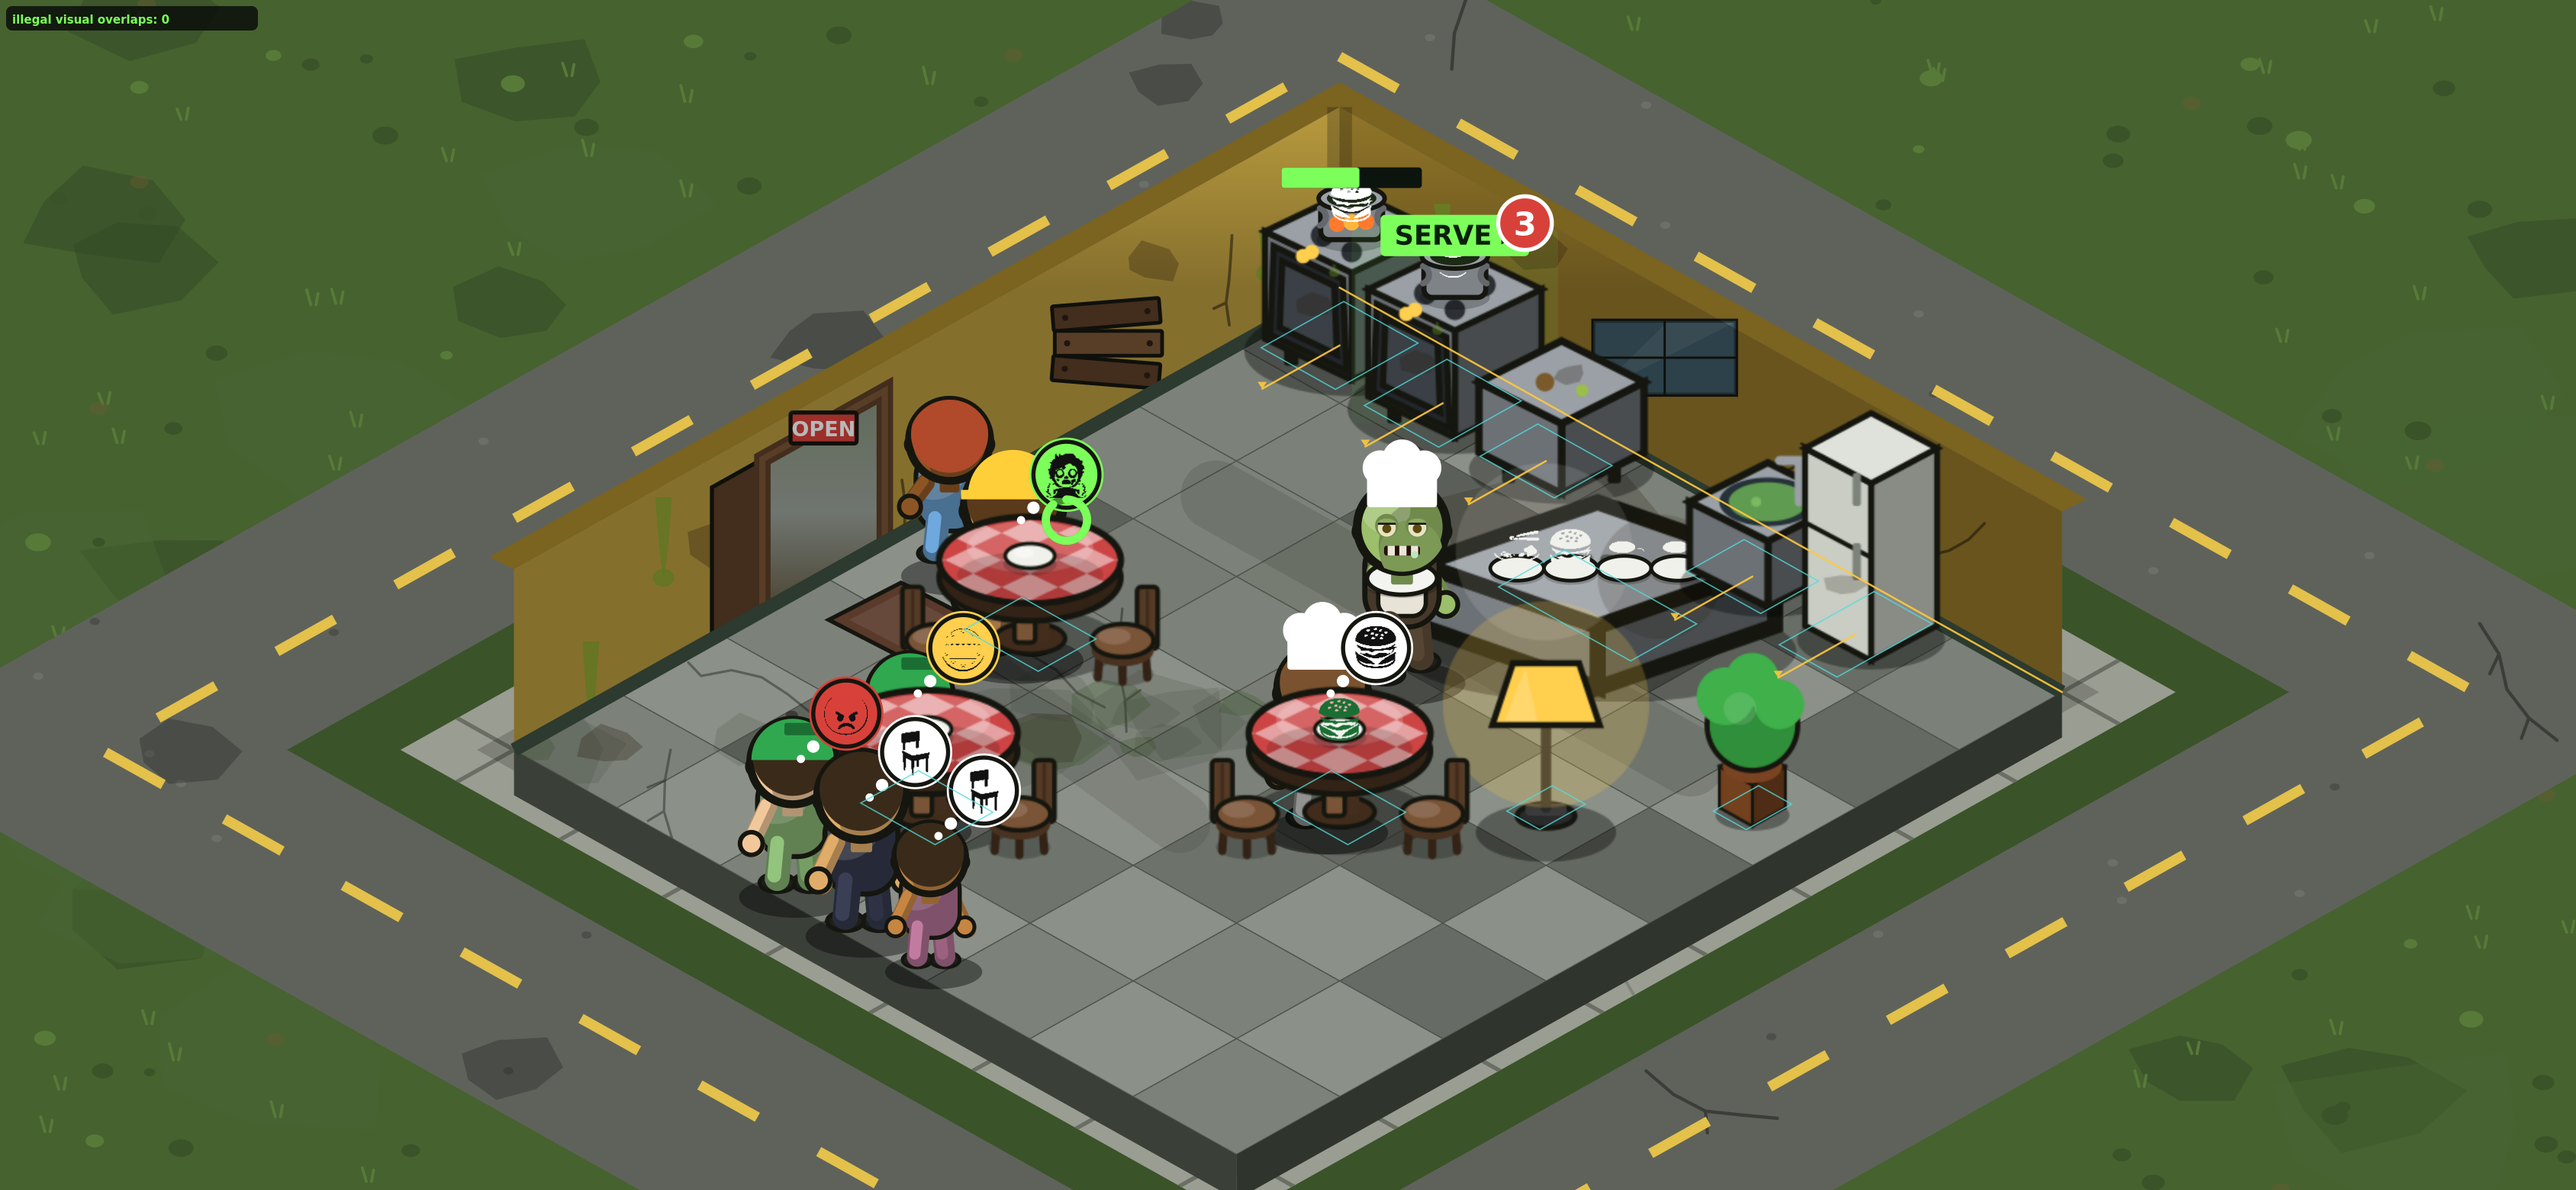
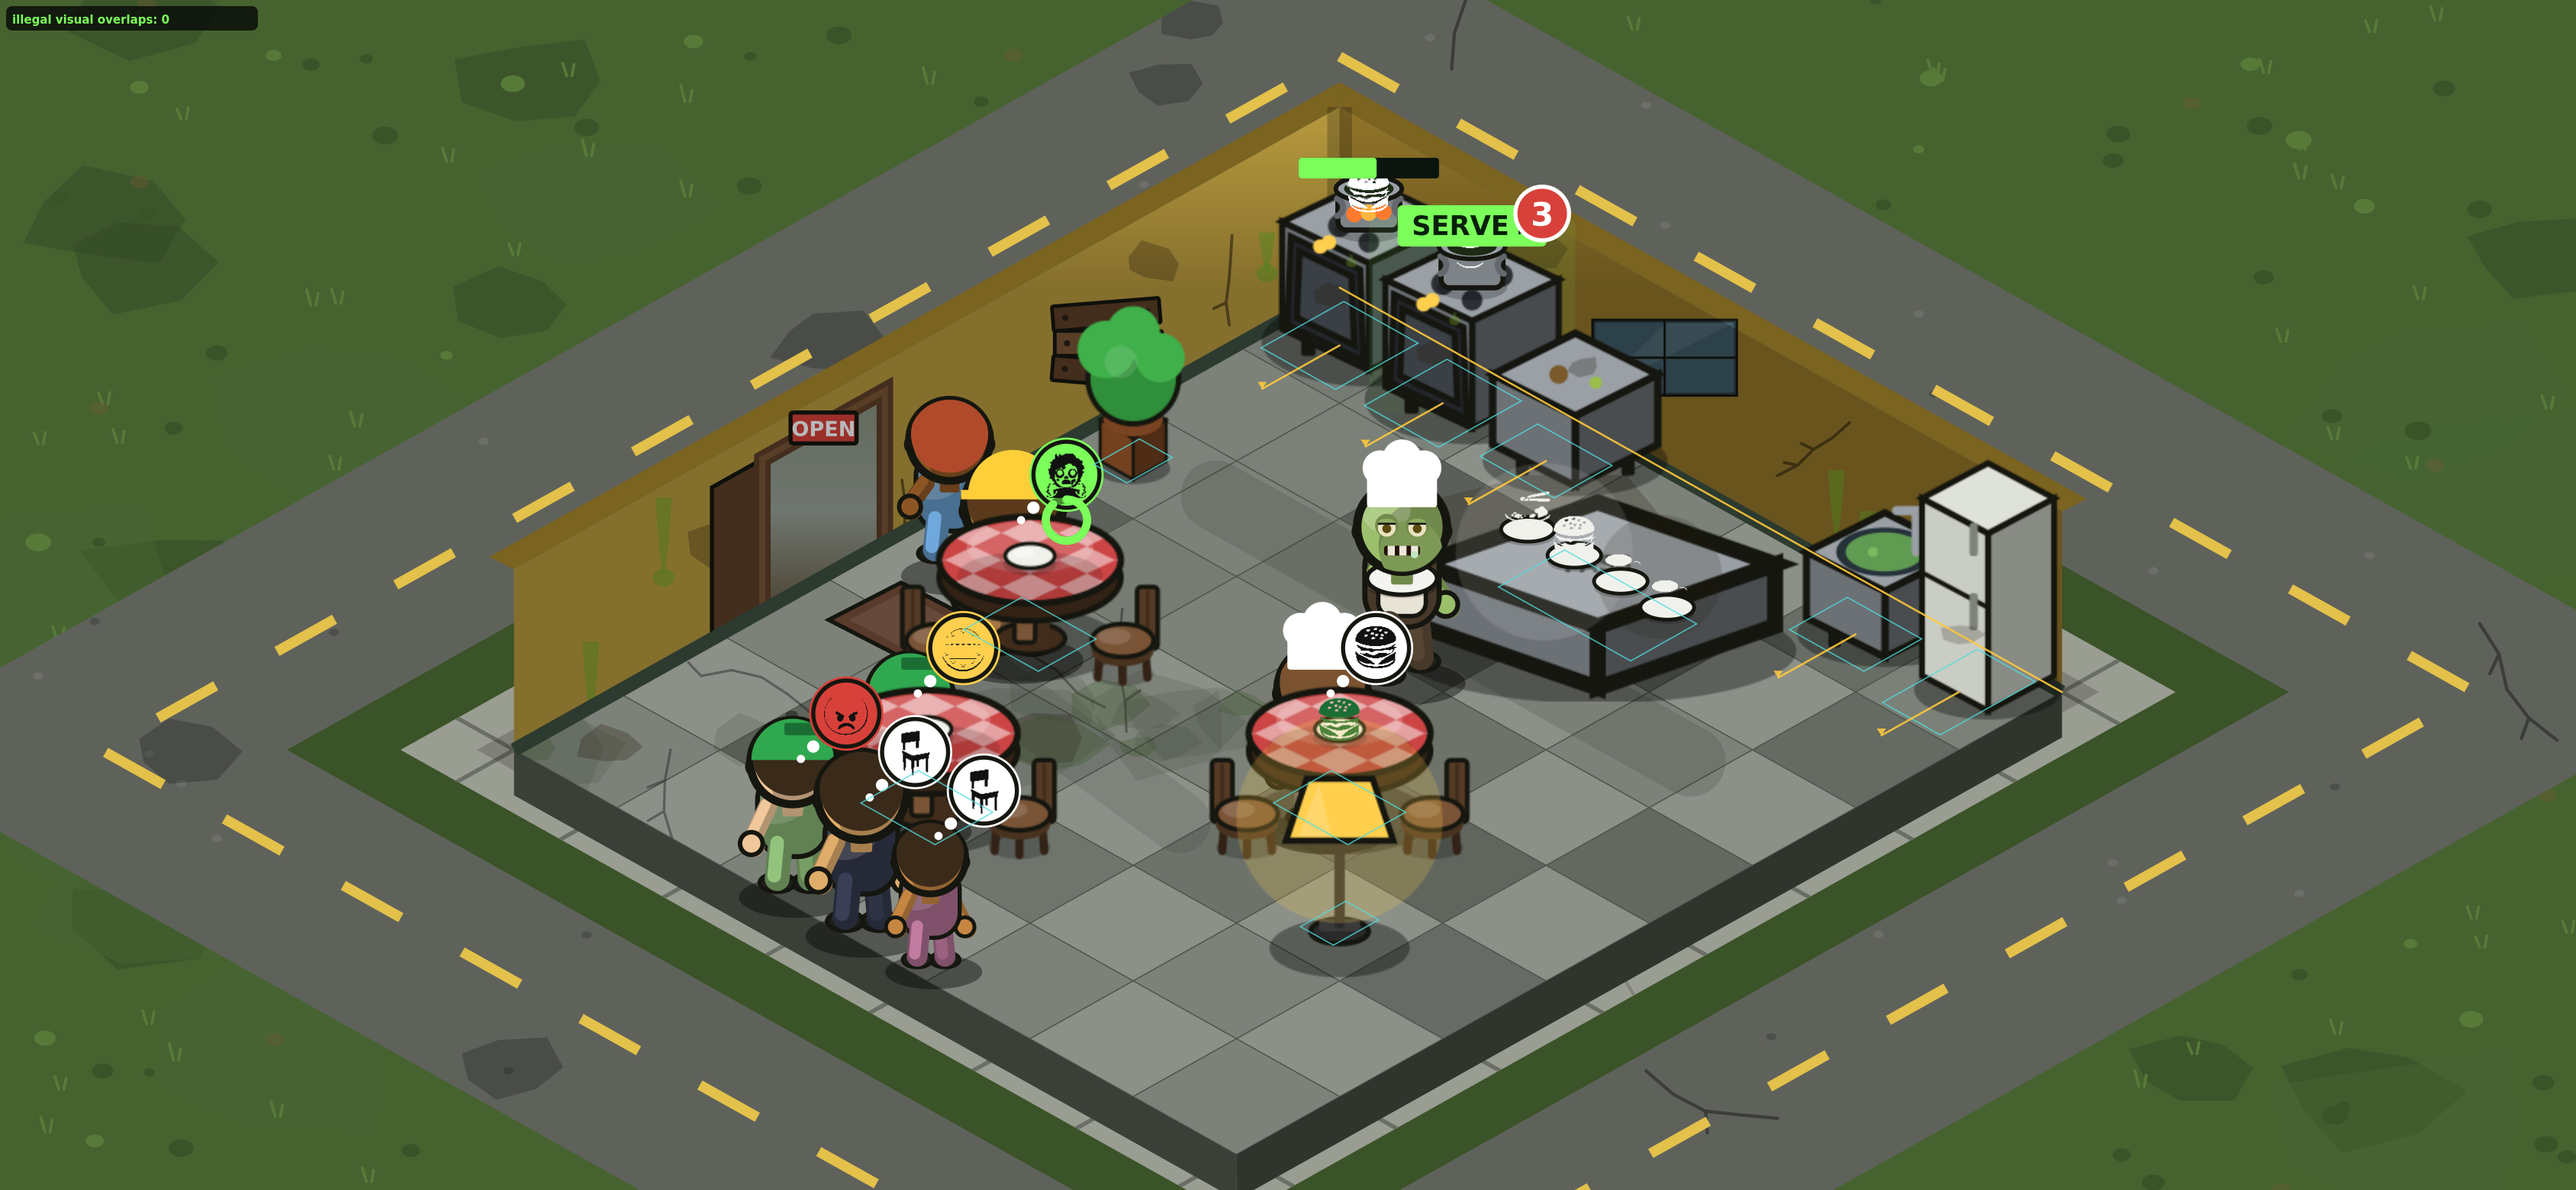
Fix circled kitchen mess: plates on the counter plane, depth tie, wall flush
From the user's marked-up screenshot, three concrete bugs in the pass/sink area:

1. PLATES FLOATED in a flat horizontal screen row across the pass. Ready dishes
   are now spread ALONG the counter's long world axis and projected, so the row
   follows the iso top plane and stays on the surface.
2. DEPTH TIE: the sink behind the 2x1 pass had the same painter depth (x+y) as
   the pass, so it could draw level with / on top of it and looked like it was
   floating beside the counter. The pass now keys its depth off its visual
   center + front half; row-0 appliances always draw behind it. The demo
   kitchen also keeps the tiles directly behind the pass EMPTY (sink moved to
   col 5, fridge col 6) so the silhouette stays clean.
3. WALL GAP: row-0 appliances sat half a tile off the wall. Wall bias increased
   (-34) for stoves + counter/sink/fridge so their back edges hug the wall base.

Also uncrowded decor (plant to the left wall, lamp by the dining table).
51/51 tests; harness re-shot (sprites: 9 | fallback: none).

Changed region(s): [[0.4043, 0.1231, 0.8086, 0.8308]]

diff --git a/www/render.js b/www/render.js
@@ -118,7 +118,9 @@
     this._custs = world.customers;
     var dvof = function (id) { var o = vof(id); return o.x + o.y; };
     function add(d, fn) { items.push({ d: d, fn: fn }); }
-    add(Wld.PASS.x + Wld.PASS.y, function () { self._pass(c, world); });
+    // pass spans 2 tiles: depth keys off its visual CENTER + front half so
+    // row-0 appliances behind it can never tie/draw over it
+    add(Wld.PASS.x + Wld.TILE * (Wld.PASS_W - 1) / 2 + Wld.PASS.y + 30, function () { self._pass(c, world); });
     world.decors.forEach(function (d) { add(d.x + d.y + dvof(d.id), function () { self._decor(c, d, ui.selected && ui.selected.id === d.id); }); });
     world.tables.forEach(function (tb) {
       var selT = ui.selected && ui.selected.id === tb.id;
@@ -461,10 +463,13 @@
       b = isoBox(c, p.x, p.y + S * 0.1, S * 0.86, S * 0.3, S * 0.3, C.steel, C.steelD);
       c.save(); topClip(c, b); c.fillStyle = 'rgba(255,255,255,.12)'; circle(c, b.x - b.fw * 0.3, b.topY - b.fh * 0.2, b.fw * 0.5); c.fillStyle = 'rgba(40,30,16,.18)'; circle(c, b.x + b.fw * 0.35, b.topY + b.fh * 0.2, b.fw * 0.35); c.restore();
     }
-    // ready dishes spread along the long top plane
+    // ready dishes spread ALONG the counter's long axis (world-x), so the row
+    // follows the iso top plane instead of floating in a flat screen line
     var n = world.ready.length, show = Math.min(n, 4);
+    var topLift = (p.y + S * 0.1) - b.topY;               // height of the top plane above the base
     for (var i = 0; i < show; i++) {
-      var dx = b.x - (show - 1) * S * 0.13 + i * S * 0.26, dy = b.topY + S * 0.02;
+      var dw = this.project(px0 - (show - 1) * 27 + i * 54, Wld.PASS.y);
+      var dx = dw.x, dy = dw.y + S * 0.1 - topLift + S * 0.02;
       c.fillStyle = 'rgba(0,0,0,.2)'; c.beginPath(); c.ellipse(dx, dy + S * 0.03, S * 0.13, S * 0.05, 0, 0, 7); c.fill();
       c.fillStyle = '#f1f1ec'; c.beginPath(); c.ellipse(dx, dy, S * 0.13, S * 0.06, 0, 0, 7); c.fill(); c.strokeStyle = C.out; c.lineWidth = S * 0.018; c.stroke();
       c.font = (S * 0.2) + 'px system-ui'; c.textAlign = 'center'; c.textBaseline = 'middle';
@@ -552,7 +557,7 @@
     var it = shop(d.deco) || {};
     var wallFlush = WALL_ARTS[it.art] === 1;
     var vo = wallFlush ? { x: 0, y: 0 } : vof(d.id);                 // wall items sit exactly flush
-    var wallBias = wallFlush ? -18 : 0;                              // pulled back against the wall base
+    var wallBias = wallFlush ? -34 : 0;                              // back edge hugs the wall base
     var p = this.project(d.x + vo.x, d.y + vo.y + wallBias), S = this.S, lift = sel ? S * 0.18 : 0, y = p.y - lift;
     // runtime sprite path (selection keeps procedural for the lift + ring)
     var sid = DECOR_SPRITE[it.art];
@@ -619,14 +624,14 @@
   };
 
   Renderer.prototype._stove = function (c, st, world, t, sel) {
-    // wall-flush appliance: no random offset, pulled slightly toward the wall
-    var p = this.project(st.x, st.y - 14), S = this.S, x = p.x, y = p.y;
+    // wall-flush appliance: no random offset, back edge hugs the wall base
+    var p = this.project(st.x, st.y - 34), S = this.S, x = p.x, y = p.y;
     if (this._selZ && (st.ready || st.burned)) this._hl(c, x, y + S * 0.2, S * 1.05, t);
     if (st.ready && !st.burning) { c.fillStyle = 'rgba(124,255,90,' + (0.2 + 0.12 * Math.sin(t * 5)) + ')'; rr(c, x - S * 0.5, y - S * 0.82, S, S * 0.95, 12); c.fill(); }
     if (st.burning || st.burned) { c.fillStyle = 'rgba(216,65,58,' + (0.22 + 0.14 * Math.sin(t * 7)) + ')'; rr(c, x - S * 0.5, y - S * 0.82, S, S * 0.95, 12); c.fill(); }
     // ===== a real iso BOX: bottom diamond on the floor, extruded up =====
     var fw = S * 0.42, fh = S * 0.2, bh = S * 0.52, topY = y - bh;
-    if (!sel && this._blit(c, 'stove_body', st.x, st.y - 14)) { this._stoveState(c, st, world, t, x, y, S, fw, fh, topY); return; }
+    if (!sel && this._blit(c, 'stove_body', st.x, st.y - 34)) { this._stoveState(c, st, world, t, x, y, S, fw, fh, topY); return; }
     this._shadow(c, x, y + fh * 0.3, S * 0.52);
     c.fillStyle = '#15160f'; rr(c, x - fw * 0.78, y + fh * 0.05, S * 0.07, S * 0.12, 2); c.fill(); rr(c, x + fw * 0.6, y + fh * 0.05, S * 0.07, S * 0.12, 2); c.fill();   // feet
     var face = function (pts, col) { c.fillStyle = col; c.beginPath(); c.moveTo(pts[0][0], pts[0][1]); for (var i = 1; i < pts.length; i++) c.lineTo(pts[i][0], pts[i][1]); c.closePath(); c.fill(); c.strokeStyle = C.out; c.lineWidth = S * 0.03; c.stroke(); };

diff --git a/www/demostates.js b/www/demostates.js
@@ -46,10 +46,11 @@
       w.coins = 5000; w.toxin = 20;
       w.buy('counter'); w.buy('fridge'); w.buy('sink'); w.buy('plant'); w.buy('lamp');
       var put = function (art, x, y) { var d = w.decors.filter(function (dd) { var it = (window.SHOP || []).filter(function (s) { return s.id === dd.deco; })[0] || {}; return it.art === art && !dd._placed; })[0]; if (d) { d.x = x; d.y = y; d.c = Math.floor(x / 120); d.r = Math.floor(y / 120); d._placed = 1; } };
-      // kitchen line flush along the back wall (row 0, tile centers)
-      put('counter', 300, 60); put('sink', 540, 60); put('fridge', 660, 60);
-      // decor in the corners / by seating (tile centers)
-      put('plant', 780, 300); put('lamp', 660, 420);
+      // kitchen line flush along the back wall (row 0, tile centers) — keep the
+      // tiles directly BEHIND the 2x1 pass empty so the silhouette stays clean
+      put('counter', 300, 60); put('sink', 660, 60); put('fridge', 780, 60);
+      // decor against the side walls, away from the service area
+      put('plant', 60, 300); put('lamp', 660, 660);
       // dining sets on tile centers, with full-tile walking aisles between
       var moveTbl = function (tb, x, y) { tb.x = x; tb.y = y; tb.cell = -1; }; var T = w.tables;
       if (T[0]) moveTbl(T[0], 180, 540); if (T[1]) moveTbl(T[1], 540, 540); if (T[2]) moveTbl(T[2], 300, 780);
@@ -116,7 +117,7 @@
     artReview_kitchenZone: function (w) {
       w.coins = 9999; w.buy('counter'); w.buy('sink'); w.buy('fridge');
       var put = function (art, x, y) { var d = w.decors.filter(function (dd) { var it = (window.SHOP || []).filter(function (s) { return s.id === dd.deco; })[0] || {}; return it.art === art && !dd._p; })[0]; if (d) { d.x = x; d.y = y; d.c = Math.floor(x / 120); d.r = Math.floor(y / 120); d._p = 1; } };
-      put('counter', 300, 60); put('sink', 540, 60); put('fridge', 660, 60);
+      put('counter', 300, 60); put('sink', 660, 60); put('fridge', 780, 60);
       w.startCook(w.stoves[0].id, 'burger'); w.stoves[0].start = w.t - 20;
       w.zombies[0].stored = true; return {};
     },
